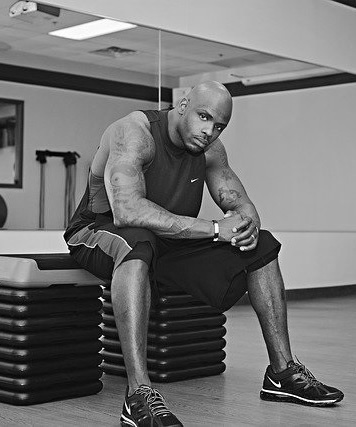
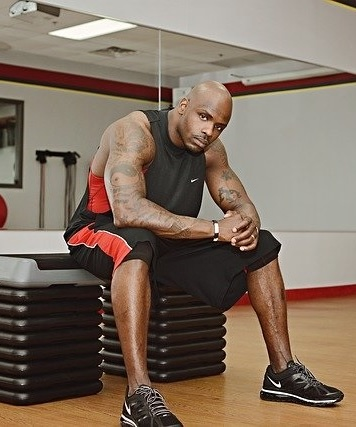
Views improvements  (ex. responsivity on mobile phones )and colored photos in component PhotoBodyMenu

diff --git a/src/components/home/PhotoBodyMenu.js b/src/components/home/PhotoBodyMenu.js
@@ -1,8 +1,10 @@
 import React from 'react'
-import crossfite from '../../photos/crossfite.jpg'
-import gaye from '../../photos/gaye.jpg'
-import traininge from '../../photos/traininge.jpg'
+import crossfite from '../../photos/man.jpg'
+import gaye from '../../photos/womanjpg.jpg'
+import traininge from '../../photos/manweights.jpg'
 import styled from 'styled-components'
+import PhotoBodyMennuStyles from '../../styles/PhotoBodyMennuStyles.css'
+import { Link } from 'react-router-dom'
 
 const Row = styled.div`
   &::after {
@@ -32,7 +34,7 @@ const Column = styled.div`
     ${({ sm }) => sm && getWidthString(sm)};
     float: left;
     &:hover {
-      transform: scale(1.2, 1.2);
+      transform: scale(1.1, 1.1);
     }
   }
 
@@ -40,10 +42,10 @@ const Column = styled.div`
     ${({ md }) => md && getWidthString(md)};
     float: left;
     // padding-left: 10%;
-    padding-top:30px;
+    padding-top: 30px;
     padding-bottom: 30px;
     &:hover {
-      transform: scale(1.2, 1.2);
+      transform: scale(1.1, 1.1);
     }
   }
 
@@ -51,7 +53,7 @@ const Column = styled.div`
     ${({ lg }) => lg && getWidthString(lg)};
     float: left;
     &:hover {
-      transform: scale(1.2, 1.2);
+      transform: scale(1.1, 1.1);
     }
   }
 `
@@ -61,12 +63,14 @@ export default function PhotoBodyMenu (props) {
     <div>
       <Row className='Photo-Body' style={{ paddingLeft: '5%' }}>
         <Column xs='4' md='4' lg='4'>
-          <img
-            className='img-menu'
-            style={{ width: '80%'}}
-            src={traininge}
-            alt={'logo'}
-          />
+          <div>
+            <img
+              className='img-menu'
+              style={{ width: '80%' }}
+              src={traininge}
+              alt={'logo'}
+            />
+          </div>
         </Column>
         <Column xs='4' md='4' lg='4'>
           <img
@@ -83,6 +87,27 @@ export default function PhotoBodyMenu (props) {
             src={gaye}
             alt={'logo'}
           />
+        </Column>
+      </Row>
+      <Row style={{ paddingLeft: '5%', width: '100%' }}>
+        <Column xs='4' md='4' lg='4'>
+          <div style={{ width: '100%' }}>
+            <Link to='/0'>
+              <button className='button-link' style={{ width: '80%' }}>
+                grafik
+              </button>
+            </Link>
+          </div>
+        </Column>
+        <Column xs='4' md='4' lg='4'>
+        <a href='https://just-fit.herokuapp.com/#/strona-g%C5%82owna'>
+          <button className='button-link'>trenerzy</button>
+          </a>
+        </Column>
+        <Column xs='4' md='4' lg='4'>
+          <Link to='/2'>
+            <button className='button-link'>oferta</button>
+          </Link>
         </Column>
       </Row>
     </div>

diff --git a/src/styles/HomeView.css b/src/styles/HomeView.css
@@ -8,30 +8,69 @@ body {
   font-size: 17px;
 }
 
-.container {
-  position: relative;
-  margin: 0 auto;
+@media only screen and (max-width: 600px) {
+  .container {
+    position: relative;
+    margin: 0 auto;
 
-  left: 50%;
-  margin-left: -50px;
+    left: 50%;
+  }
+
+  .redirect-to-event-container {
+    display: none;
+    visibility: hidden;
+  }
+
+  .container {
+    display: none;
+  }
+
+  .content {
+    display: none;
+  }
+
+  .container-mobile {
+    background-color: black;
+    color: orange;
+    font-weight: bold;
+    font-size: 20px;
+    height: 40px;
+    margin-left: 10px;
+  }
 }
 
-.container img {vertical-align: middle;}
+@media only screen and (min-width: 768px) {
+  .container {
+    position: relative;
+    margin: 0 auto;
+
+    left: 50%;
+    margin-left: -50px;
+  }
+
+  .container-mobile {
+    display: none;
+  }
+}
+
+.container img {
+  vertical-align: middle;
+}
 
 .container .content {
   position: absolute;
   visibility: visible;
   bottom: 0;
-  background: rgb(0, 0, 0); 
-  background: rgba(0, 0, 0, 0.7); 
+  background: rgb(0, 0, 0);
+  background: rgba(0, 0, 0, 0.7);
   color: #f1f1f1;
   width: 100%;
   padding: 20px;
 }
 
 .container .content-hover {
-visibility: hidden;
-display: none;
+  visibility: hidden;
+  display: none;
 }
 
 .container:hover .content-hover {
@@ -45,12 +84,11 @@ display: none;
   color: white;
   font-size: x-large;
   color: white;
-  background: rgba(0, 0, 0, 0.7); 
+  background: rgba(0, 0, 0, 0.7);
   width: 100%;
   height: 100%;
   padding-top: 30%;
-
-  }
+}
 
 .container:hover .content {
   position: absolute;

diff --git a/src/components/home/HomeView.js b/src/components/home/HomeView.js
@@ -105,6 +105,14 @@ class HomeView extends React.Component {
                 </button>
               </div>
             </div>
+            <button
+              className='container-mobile'
+              onClick={this.clickHandler}
+              style={{ width: '100%', padding: '0px', border: '0px' }}
+            >
+              {' '}
+              WYDARZENIA{' '}
+            </button>
             <PhotoBodyMenu />
           </div>
         </body>

diff --git a/src/components/logging/LoginPageView.js b/src/components/logging/LoginPageView.js
@@ -51,7 +51,7 @@ class AltLoginPageView extends React.Component {
           style={{ paddingLeft: '0px', paddingRight: '0px', height: '100%' }}
           className='justify-content-md-center login-page-container'
         >
-          <Row>
+          <Row style={{display:'flex', flexWrap:'wrap', marginRight:'-15px', marginLeft:'-15px', height:'100vh'}}>
             <Col style={{ backgroundColor: 'orange' }}>
               <Col
                 lg={10}

diff --git a/src/App.js b/src/App.js
@@ -17,6 +17,7 @@ function App () {
         <Switch>
           <Route exact path='/' component={LoginPageView} />
           <Route exact path='/home' component={HomeView} />
+          <Route exact path='/4' component={HomeView} />
           <Route path='/0' component={ProgrammeView} />
           <Route path='/1' component={SignedInUsersOfferView} />
           <Route path='/login' component={LoginPageView} />

diff --git a/src/components/home/MenuDrawer.js b/src/components/home/MenuDrawer.js
@@ -53,7 +53,7 @@ export default function TemporaryDrawer () {
       onKeyDown={toggleDrawer(anchor, false)}
     >
       <List>
-        {['Rozkład zajęć', 'Mój karnet', 'Oferta', 'Moje dane'].map(
+        {['Rozkład zajęć', 'Mój karnet', 'Oferta', 'Moje dane', 'Wydarzenia'].map(
           (text, index) => (
             <div className='xxx' key={index}>
               <Link to={'/' + index}>

diff --git a/src/styles/PhotoBodyMennuStyles.css b/src/styles/PhotoBodyMennuStyles.css
@@ -1,0 +1,11 @@
+.button-link {
+    width:80%;
+    background-color: orange;
+    color: black;
+    border-radius: 20px;
+    border: none;
+    text-transform: uppercase;
+    font-weight: bold;
+    font-size: 20px;
+
+}

diff --git a/src/components/ConfirmAlert.js b/src/components/ConfirmAlert.js
@@ -48,7 +48,8 @@ const Auth = new AuthService()
         return response.json()
       }
     })
-    handleClose();
+    .then(handleClose())
+    .then(window.location.reload())
   }
 
   return (
